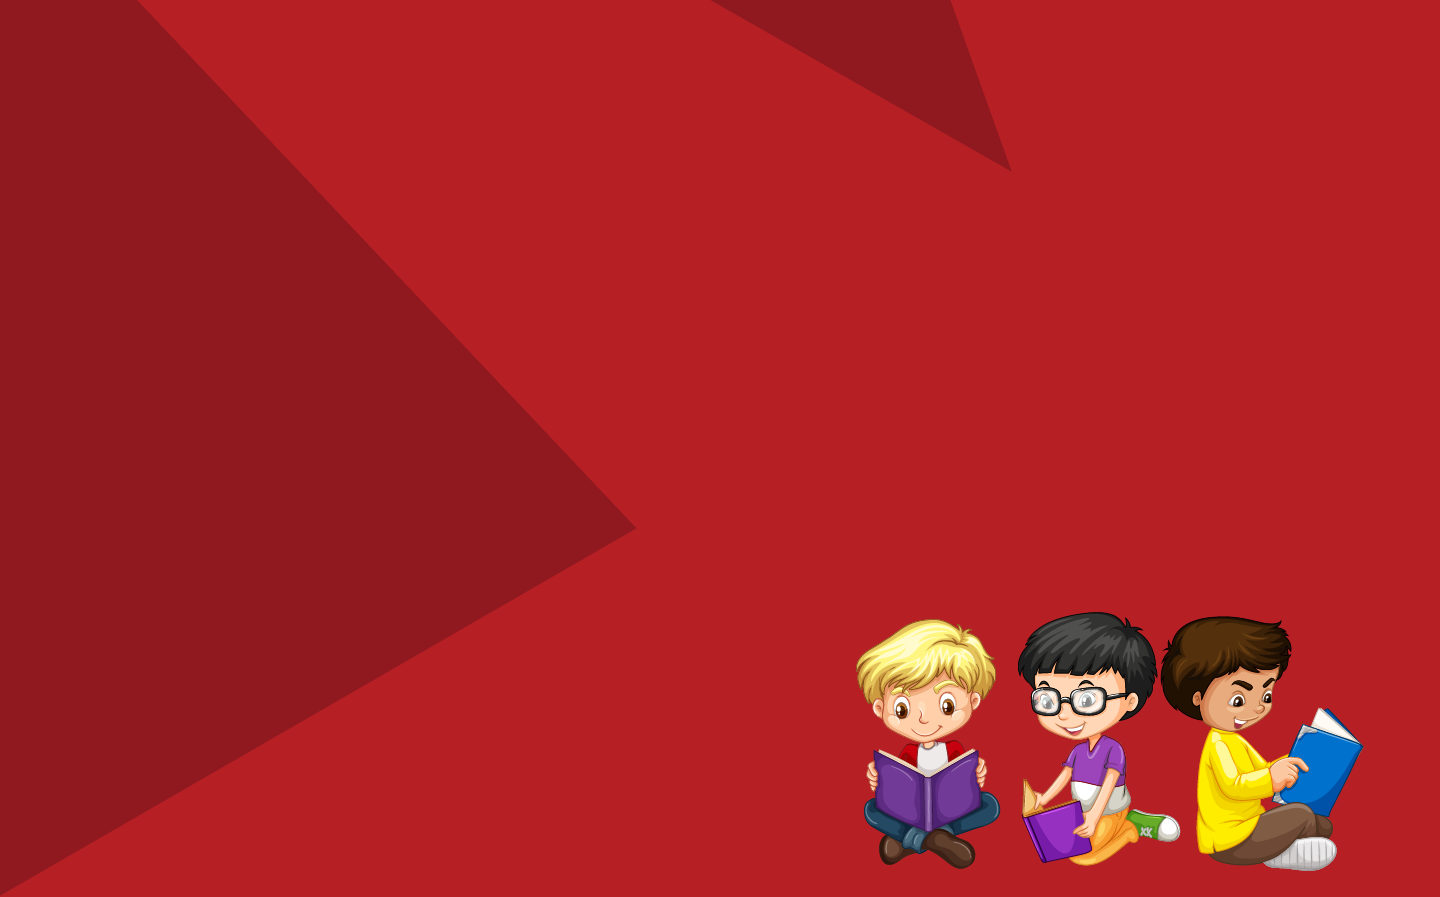
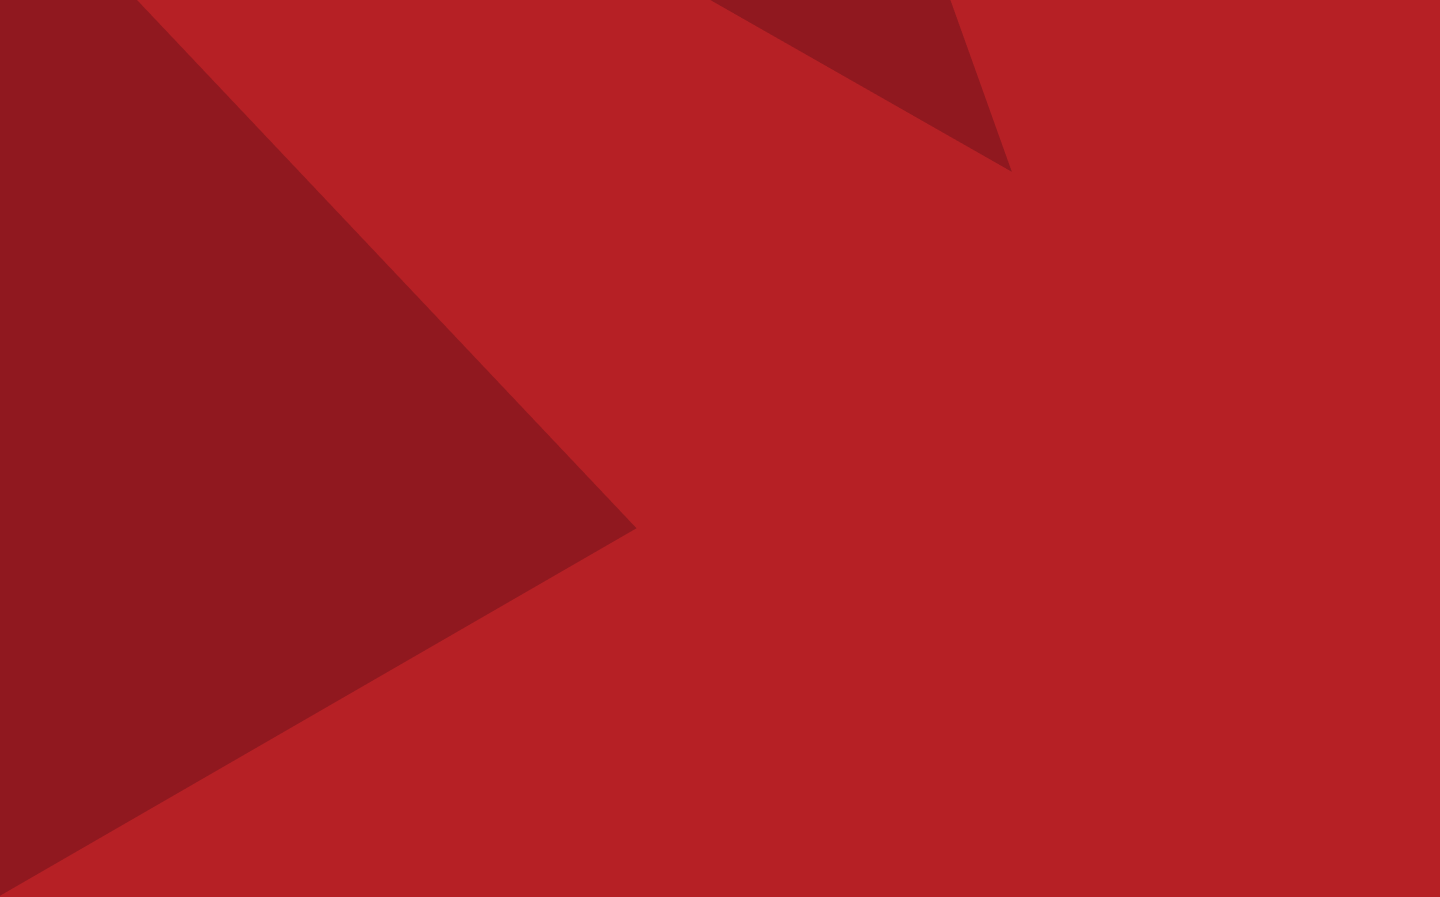
footer character detached

Changed region(s): [[0.5938, 0.6867, 0.9688, 0.9677]]

diff --git a/src/components/shared/footer3.tsx b/src/components/shared/footer3.tsx
@@ -68,13 +68,13 @@ const Footer: React.FC = () => {
 
 
   return (
-    <div className="relative bg-cover  bg-center min-h-screen w-full overflow-hidden font-poppins md:pt-28">
+    <div className="relative bg-cover   bg-center  w-full overflow-hidden font-poppins md:p-4">
       {/* Background Image */}
       <div
         className="absolute inset-0 bg-cover bg-center"
         style={{
           // backgroundImage: "url(/FooterRed.png)",
-           backgroundImage: "url('/images/Asset 3.png')",
+           backgroundImage: "url('/images/Asset 2.png')",
 
           backgroundPosition: "center top",
         }}
@@ -157,11 +157,23 @@ const Footer: React.FC = () => {
               </p>
              
             </div>
+             {/* Footer Bottom */}
+        <div className="mt-14 lg:mt-24 border-t border-white/10  pt-8 flex flex-col space-y-4">
+          {/* Links */}
+          <div className="flex space-x-6">
+            <Link href="/privacy-policy" className="hover:underline text-sm lg:text-base">
+              Privacy Policy
+            </Link>
+            <Link href="/terms-of-use" className="hover:underline text-sm lg:text-base">
+              Terms of Use
+            </Link>
+          </div>
+        </div>
           </div>
 
           {/* NewsLetter Section */}
-          <div className="flex flex-col md:flex-row md:gap-29 text-center md:text-left  md:pr-[25px]">
-          <div className="flex flex-col items-center justify-center self-center">
+          <div className="flex border-white flex-col md:flex-col md:gap-29 text-center md:text-left  md:pr-[25px]">
+          <div className="flex flex-col md:mb-16 items-center justify-center self-center">
             <div className="text-center w-full max-w-2xl px-4">
               <h3 className="text-2xl md:text-3xl font-semibold mb-6">
                 Subscribe To Get The Latest Updates!
@@ -189,21 +201,19 @@ const Footer: React.FC = () => {
               {message && <p className="mt-4">{message}</p>}
             </div>
           </div>
+          <div className="md:mt-30">
+          <Image
+                  src="/images/kid.png"
+                  alt="99explainers"
+                  width={550}
+                  height={375}
+                  className="mb-6 transform  transition-transform duration-300"
+                />
+          </div>
           </div>
         </div>
 
-        {/* Footer Bottom */}
-        <div className="mt-8 lg:mt-36  pt-6 flex flex-col space-y-4">
-          {/* Links */}
-          <div className="flex space-x-6">
-            {/* <Link href="/privacy-policy" className="hover:underline text-sm lg:text-base">
-              Privacy Policy
-            </Link>
-            <Link href="/terms-of-use" className="hover:underline text-sm lg:text-base">
-              Terms of Use
-            </Link> */}
-          </div>
-        </div>
+       
       </div>
     </div>
   );
